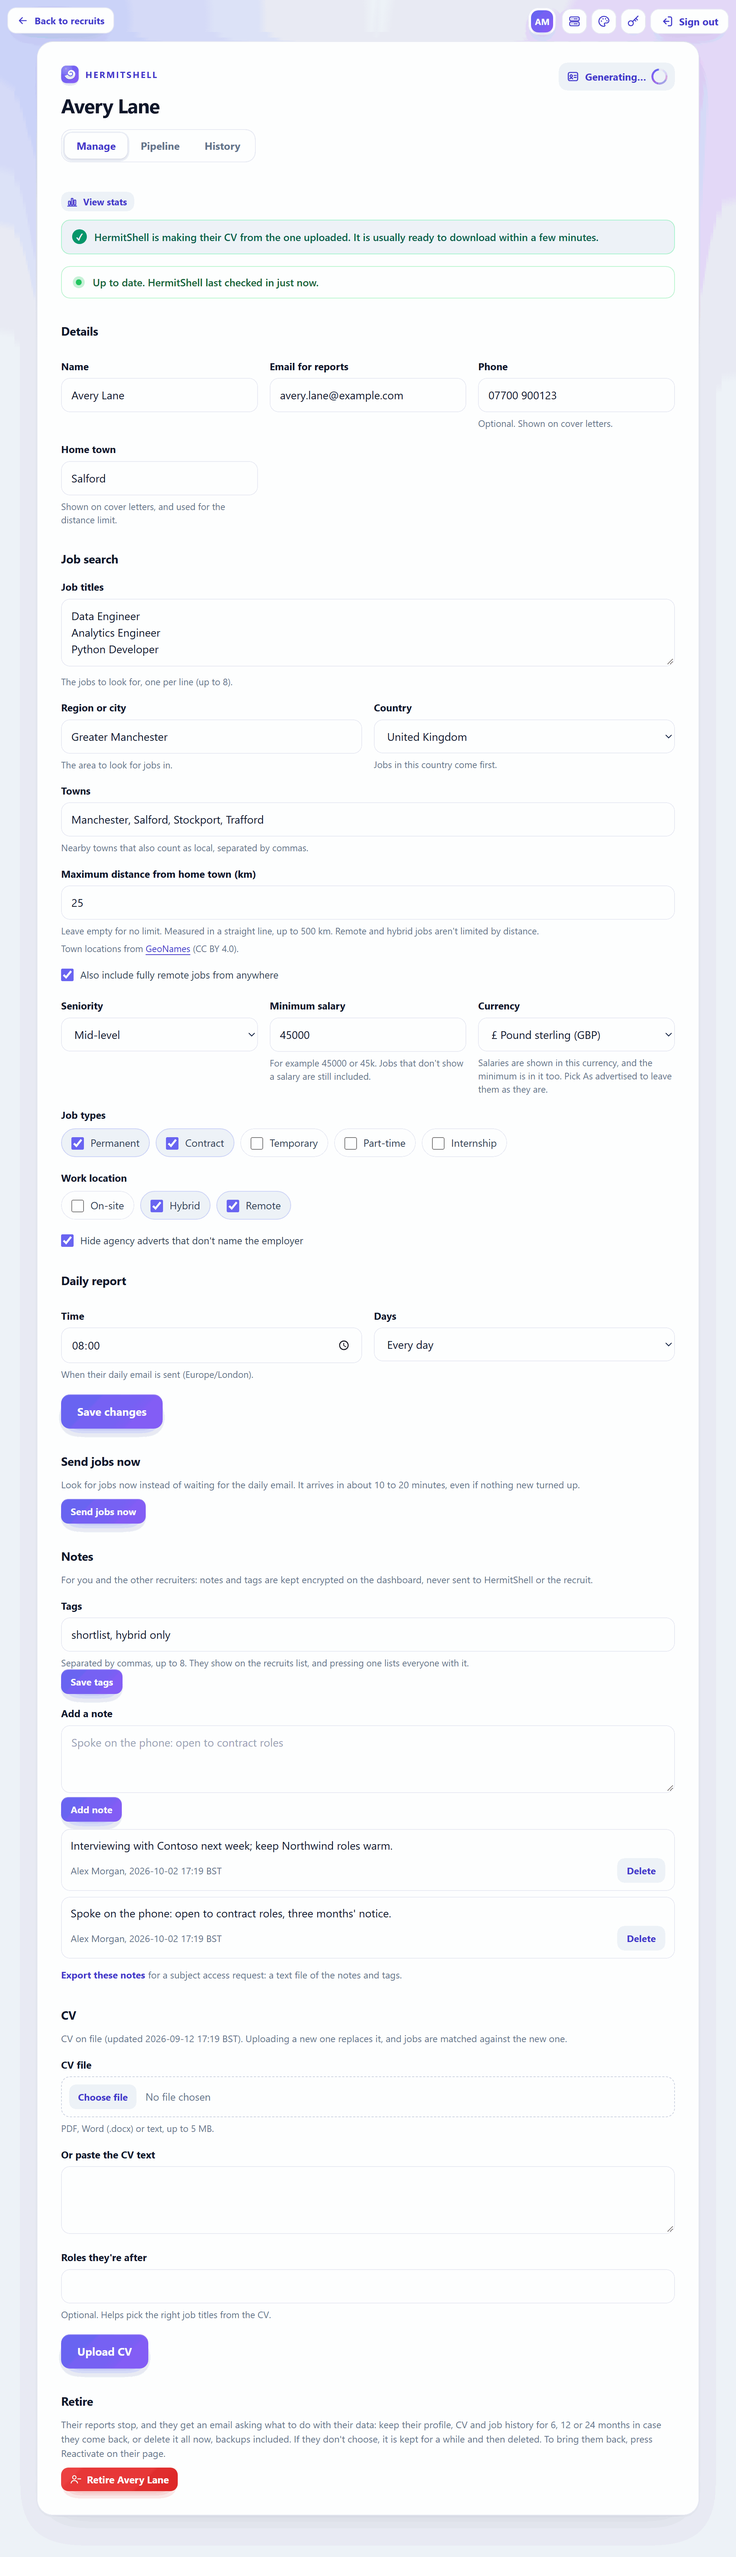
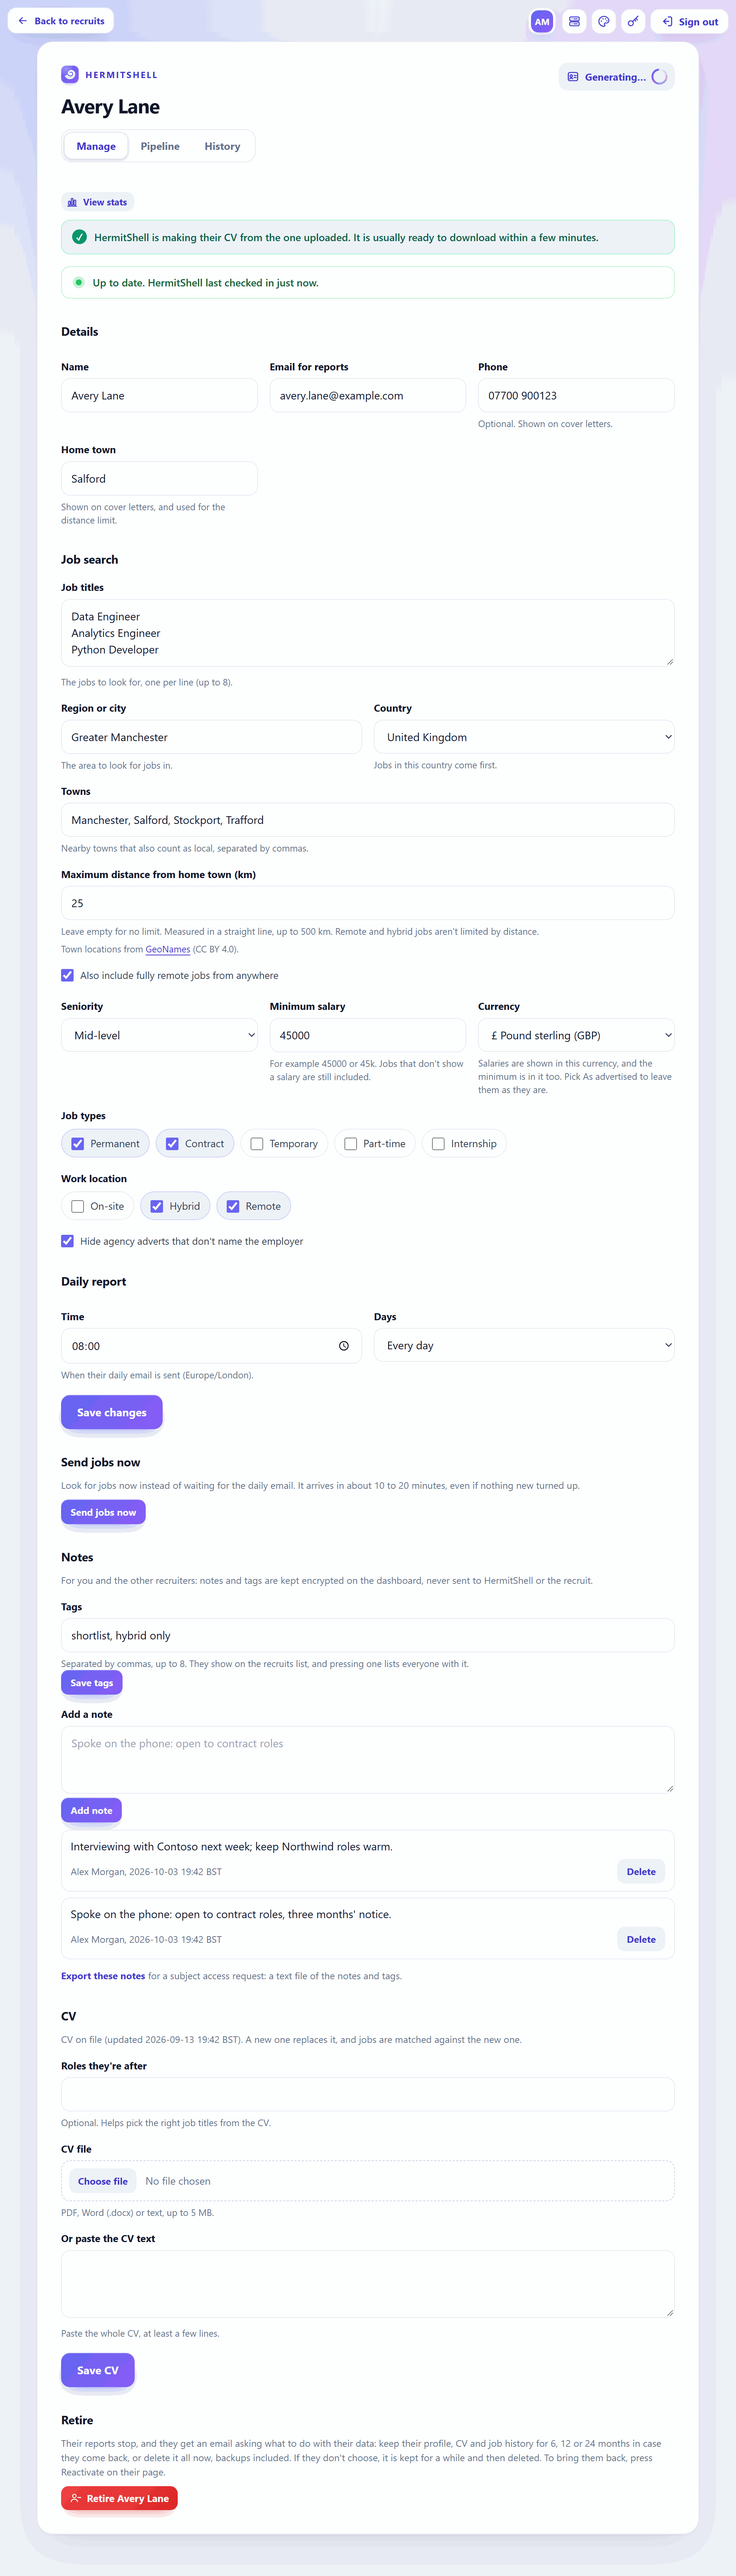
Make a pasted CV easy to save
The CV button on a recruit's page now says Save CV and sits right under the paste box, with Roles they're after first and a hint to paste the whole CV. The messages say CV saved or how to fix a short paste. New e2e test, unit test, docs, changelog and screenshots.

diff --git a/packages/daily-vacancy-report/feedback-worker/src/settings.js b/packages/daily-vacancy-report/feedback-worker/src/settings.js
@@ -473,12 +473,12 @@ ${searchFields(v, reportHint(p, status))}
 ${p.status === "retired" ? "" : sendSection(p, csrf, status.timezone)}
 ${notes}
 <h2 id="cv">CV</h2>
-<p class="muted">${p.has_cv ? `CV on file${p.cv_updated ? ` (updated ${esc(when(p.cv_updated, status.timezone))})` : ""}. Uploading a new one replaces it, and jobs are matched against the new one.` : "No CV yet. Upload one so jobs can be matched to it."}</p>
+<p class="muted">${p.has_cv ? `CV on file${p.cv_updated ? ` (updated ${esc(when(p.cv_updated, status.timezone))})` : ""}. A new one replaces it, and jobs are matched against the new one.` : "No CV yet. Add one so jobs can be matched to it."}</p>
 <form method="post" action="/admin/cv" enctype="multipart/form-data">${hidden({ csrf, u: pid })}
-<label for="cv">CV file</label><input id="cv" name="cv" type="file" accept=".pdf,.docx,.txt,.md">${hint("PDF, Word (.docx) or text, up to 5 MB.")}
-<label for="cv_text">Or paste the CV text</label><textarea id="cv_text" name="cv_text" maxlength="${MAX_CV_TEXT}"></textarea>
 <label for="roles">Roles they're after</label><input id="roles" name="roles" maxlength="300">${hint("Optional. Helps pick the right job titles from the CV.")}
-<button>Upload CV</button></form>
+<label for="cv">CV file</label><input id="cv" name="cv" type="file" accept=".pdf,.docx,.txt,.md">${hint("PDF, Word (.docx) or text, up to 5 MB.")}
+<label for="cv_text">Or paste the CV text</label><textarea id="cv_text" name="cv_text" maxlength="${MAX_CV_TEXT}"></textarea>${hint("Paste the whole CV, at least a few lines.")}
+<button>Save CV</button></form>
 ${retireSection(p, csrf, status.timezone)}`, { wide: true, status: code, before: retireModal(p, csrf) + BACK_TO_RECRUITS, headers: { "Content-Security-Policy": `${CSP}; frame-src 'self'` },
     refresh: cv?.busy ? 15 : 0, refreshTo: cv?.busy ? `/admin/profile?u=${pid}` : "" });
 }
@@ -680,8 +680,8 @@ export const SETTINGS_DONE = {
   profile: "Unknown recruit. Reload the admin page and try again.",
   cvsize: "The CV file is larger than 5 MB.",
   cvtype: "The CV must be a PDF, a Word .docx file or a text file.",
-  cvmissing: "Upload a CV file or paste the CV (at least a few lines).",
-  cvqueued: "CV uploaded. HermitShell reads it and updates the profile within about 10 minutes, then emails a summary.",
+  cvmissing: "Choose a CV file or paste the whole CV (at least a few lines), then press Save CV.",
+  cvqueued: "CV saved. HermitShell reads it and updates the profile within about 10 minutes, then emails a summary.",
   badtime: "Choose a time for the daily report.",
   sending: "Looking for jobs now. The email arrives in about 10 to 20 minutes.",
 };

diff --git a/packages/daily-vacancy-report/feedback-worker/e2e/cv.spec.js b/packages/daily-vacancy-report/feedback-worker/e2e/cv.spec.js
@@ -1,0 +1,30 @@
+import { expect, test } from "@playwright/test";
+
+import { hermitShellApi, reportStatus, signIn } from "./fixtures.js";
+
+const CV_TEXT = "Sam Lee. Data analyst with SQL, Python and Power BI, building reports for Northwind and Contoso. ".repeat(4);
+
+test.afterEach(async ({ request }) => {
+  const { items } = await (await hermitShellApi(request, "GET", "/api/queue?full=1")).json();
+  if (items.length) await hermitShellApi(request, "POST", "/api/queue/ack", { ids: items.map((i) => i.id) });
+});
+
+test("a pasted CV is saved with the Save CV button right under the paste box", async ({ page, request }) => {
+  await reportStatus(request);
+  await signIn(page);
+  await page.goto("/admin/profile?u=sam-lee");
+  const paste = page.getByLabel("Or paste the CV text");
+  await paste.fill("Too short");
+  await page.getByRole("button", { name: "Save CV" }).click();
+  await expect(page).toHaveURL(/done=cvmissing$/);
+  await expect(page.getByText("then press Save CV")).toBeVisible();
+
+  await page.getByLabel("Or paste the CV text").fill(CV_TEXT);
+  await page.getByRole("button", { name: "Save CV" }).click();
+  await expect(page).toHaveURL(/done=cvqueued$/);
+  await expect(page.getByText("CV saved.")).toBeVisible();
+  const { items } = await (await hermitShellApi(request, "GET", "/api/queue?full=1")).json();
+  expect(items.map((i) => [i.action, i.u])).toEqual([["cv", "sam-lee"]]);
+  await page.goto("/admin/history?u=sam-lee");
+  await expect(page.getByText("Pasted new CV text")).toBeVisible();
+});

diff --git a/packages/daily-vacancy-report/feedback-worker/test/settings.test.js b/packages/daily-vacancy-report/feedback-worker/test/settings.test.js
@@ -490,7 +490,9 @@ describe("profile page", () => {
     const { get } = await setup();
     const { body } = await get("/admin/profile?u=sam-lee");
     expect(body.match(/<button>Save changes<\/button>/g)).toHaveLength(1);
-    expect(body.match(/<button>Upload CV<\/button>/g)).toHaveLength(1);
+    expect(body.match(/<button>Save CV<\/button>/g)).toHaveLength(1);
+    const cvForm = body.slice(body.indexOf('action="/admin/cv"'), body.indexOf("</form>", body.indexOf('action="/admin/cv"')));
+    expect(cvForm.slice(cvForm.indexOf('id="cv_text"'))).toMatch(/^id="cv_text"[^]*<\/textarea><span class="hint">Paste the whole CV, at least a few lines\.<\/span>\s*<button>Save CV<\/button>$/);
     expect(body.match(/<button class="small">Send jobs now<\/button>/g)).toHaveLength(1);
     expect(body.slice(body.indexOf("<main")).match(/<form (?![^>]*action="\/admin\/notes")/g)).toHaveLength(4);
     expect(body.slice(body.indexOf("<main")).match(/<form [^>]*action="\/admin\/notes"/g)).toHaveLength(2);

diff --git a/docs/screenshots.md b/docs/screenshots.md
@@ -623,7 +623,7 @@ When it is ready, the notice turns green for a day:
 | Notes: **Tags** + **Save tags** | Up to 8 tags, separated by commas, shown as pills on the recruits list ([more](feedback-worker.md#notes-and-tags)) |
 | Notes: **Add a note** + **Add note** | A note for you and the other recruiters, newest first with who wrote it and when; **Delete** for its writer and admins |
 | Notes: **Export these notes** | Admins only: a text file of the recruit's notes and tags, for a subject access request |
-| CV + **Upload CV** | A new CV file or pasted text; HermitShell rebuilds the profile and skills from it and emails a summary |
+| CV + **Save CV** | A new CV file or pasted text, saved with the button right under the paste box; HermitShell rebuilds the profile and skills from it and emails a summary |
 
 <img src="images/worker/admin-profile-notes.png" alt="The Notes box on a recruit's page: tags, a note being added and two earlier notes" width="620">
 

diff --git a/CHANGELOG.md b/CHANGELOG.md
@@ -1121,6 +1121,12 @@ using [Semantic Versioning](https://semver.org/).
 
 ### Fixed
 
+- **A pasted CV is easy to save.** On a recruit's page the CV's button sat below **Roles they're after**
+  and said **Upload CV**, so it didn't look like it saved pasted text. It now says **Save CV** and sits
+  right under the paste box ("Paste the whole CV, at least a few lines."), **Roles they're after** comes
+  first, and the messages say "CV saved." or how to fix a short paste. Covered by `e2e/cv.spec.js` and
+  `test/settings.test.js`.
+
 - **Pressing a button again no longer queues the same change twice.** Pressing Pause (or Resume, Retire,
   Delete or Assign) repeatedly, or several times at once, used to add one task per press, all waiting for
   HermitShell. Now a change already waiting for that recruit, or the same press in the last two minutes before

diff --git a/docs/feedback-worker.md b/docs/feedback-worker.md
@@ -816,7 +816,7 @@ running while it is on.
 **Manage** (this page) and **History** (see [History](#history)); **Users and roles** and **Global
 settings** are only on the dashboard. Each box has a short hint
 under it. Details, job search and the daily report time are one form with one **Save changes**
-button; **Send jobs now** and the CV's **Upload CV** have their own.
+button; **Send jobs now** and the CV's **Save CV** have their own.
 
 - **Details**: name, the email address their reports go to, phone and home town (shown on cover
   letters, and where the distance below is measured from).
